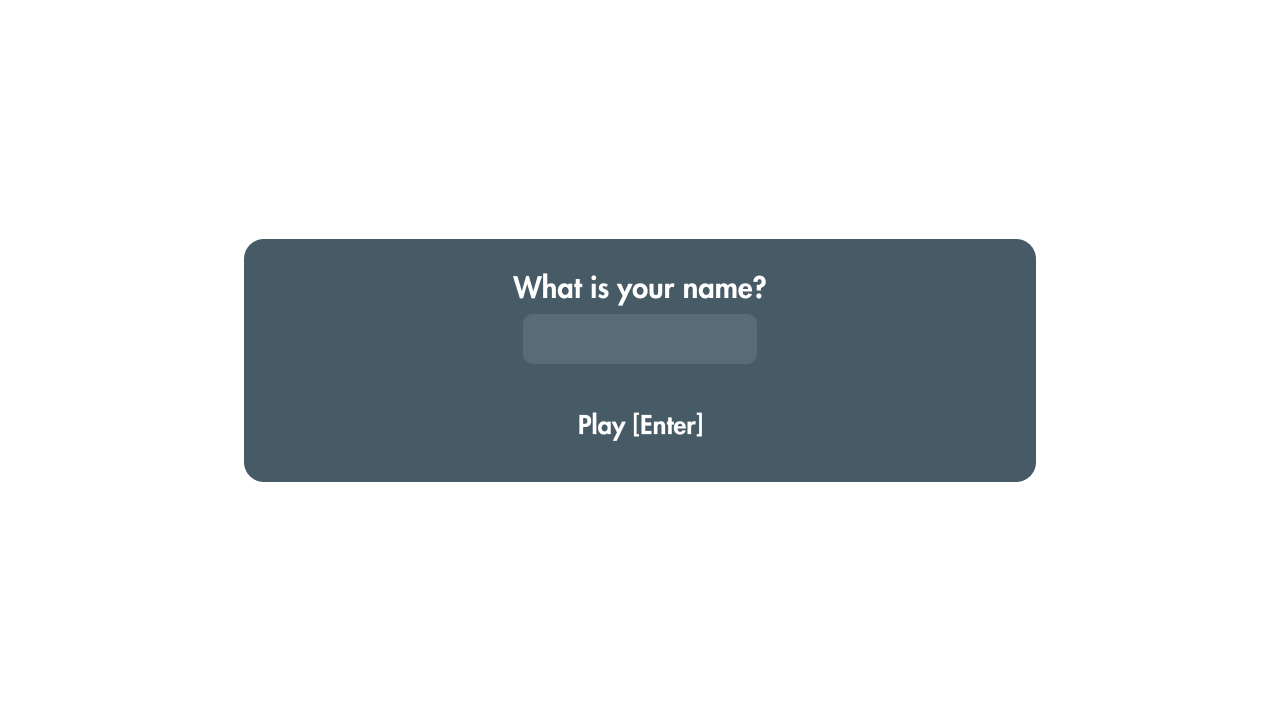
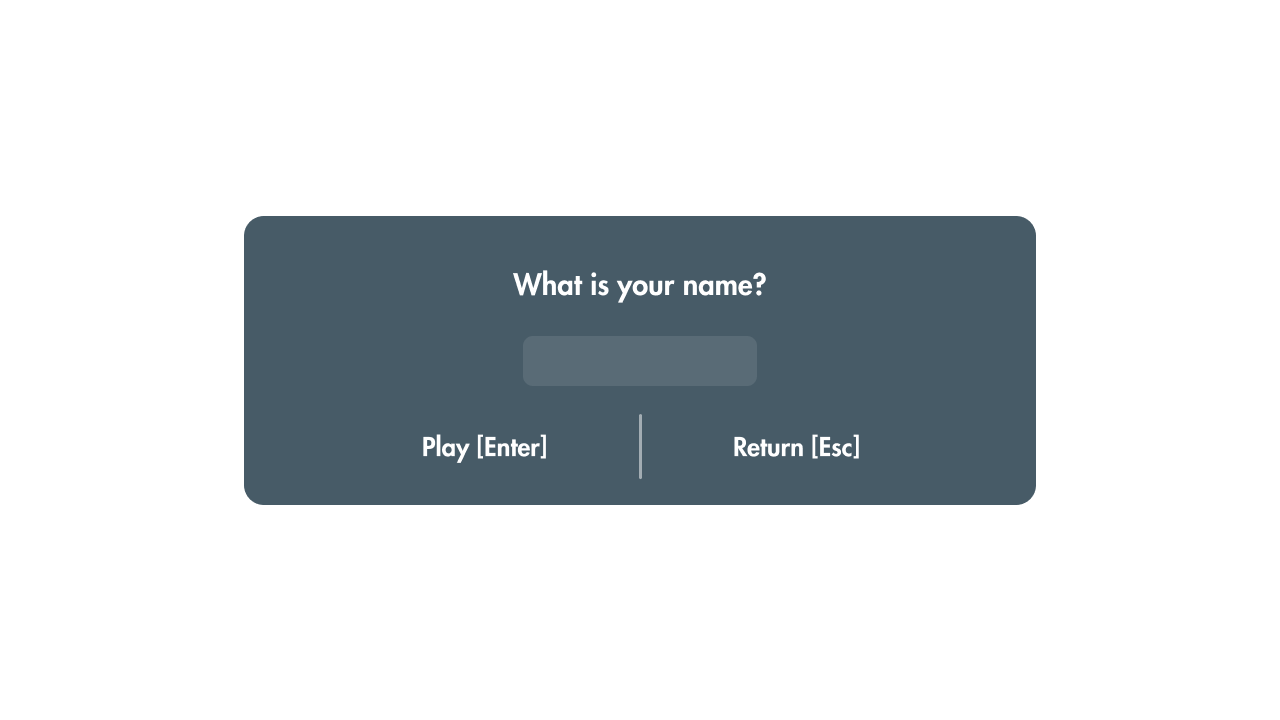
Started working on Play Screen.

diff --git a/CPTtools.java b/CPTtools.java
@@ -86,7 +86,7 @@ public class CPTtools{
 					}
 					con.clear();
 					con.drawImage(imgName, 0, 0);
-					con.drawString(strUserName, 534, 317);
+					con.drawString(strUserName, 534, 340);
 					con.repaint();
 				}
 					
@@ -226,12 +226,6 @@ public class CPTtools{
 		con.setDrawFont(fntFont);
 		con.setDrawColor(Color.WHITE);
 		
-		// printing image
-		con.clear();
-		BufferedImage imgPlay = con.loadImage("Play.png");
-		con.drawImage(imgPlay, 0, 0);
-		con.repaint();
-		
 		// printing amount of money
 		con.println("You have: $"+intUserMoney);
 		
@@ -250,6 +244,12 @@ public class CPTtools{
 		}
 		
 		System.out.println("TEST BET VALUE: "+intUserBet);
+		
+		// printing image
+		con.clear();
+		BufferedImage imgPlay = con.loadImage("Play.png");
+		con.drawImage(imgPlay, 0, 0);
+		con.repaint();
 		
 		// show hand
 		
